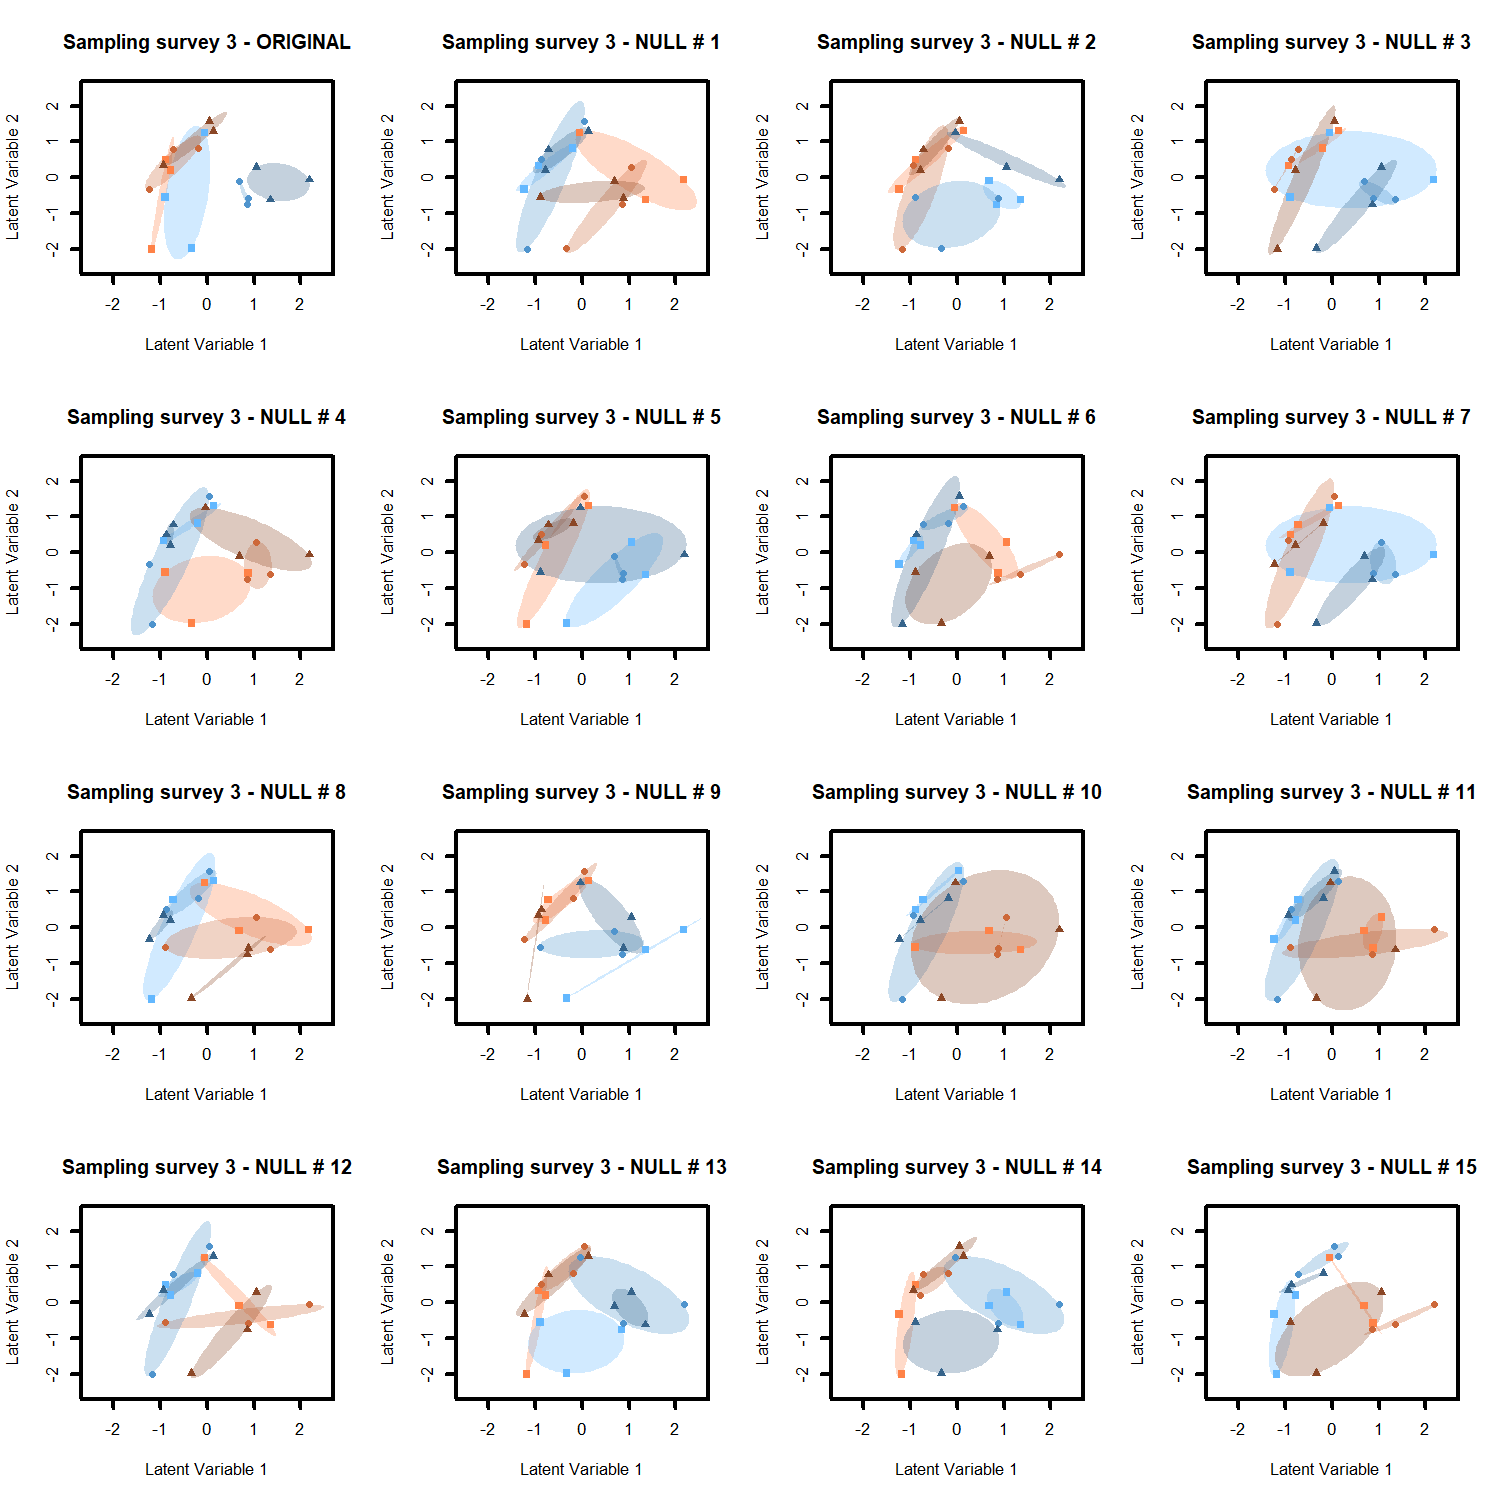
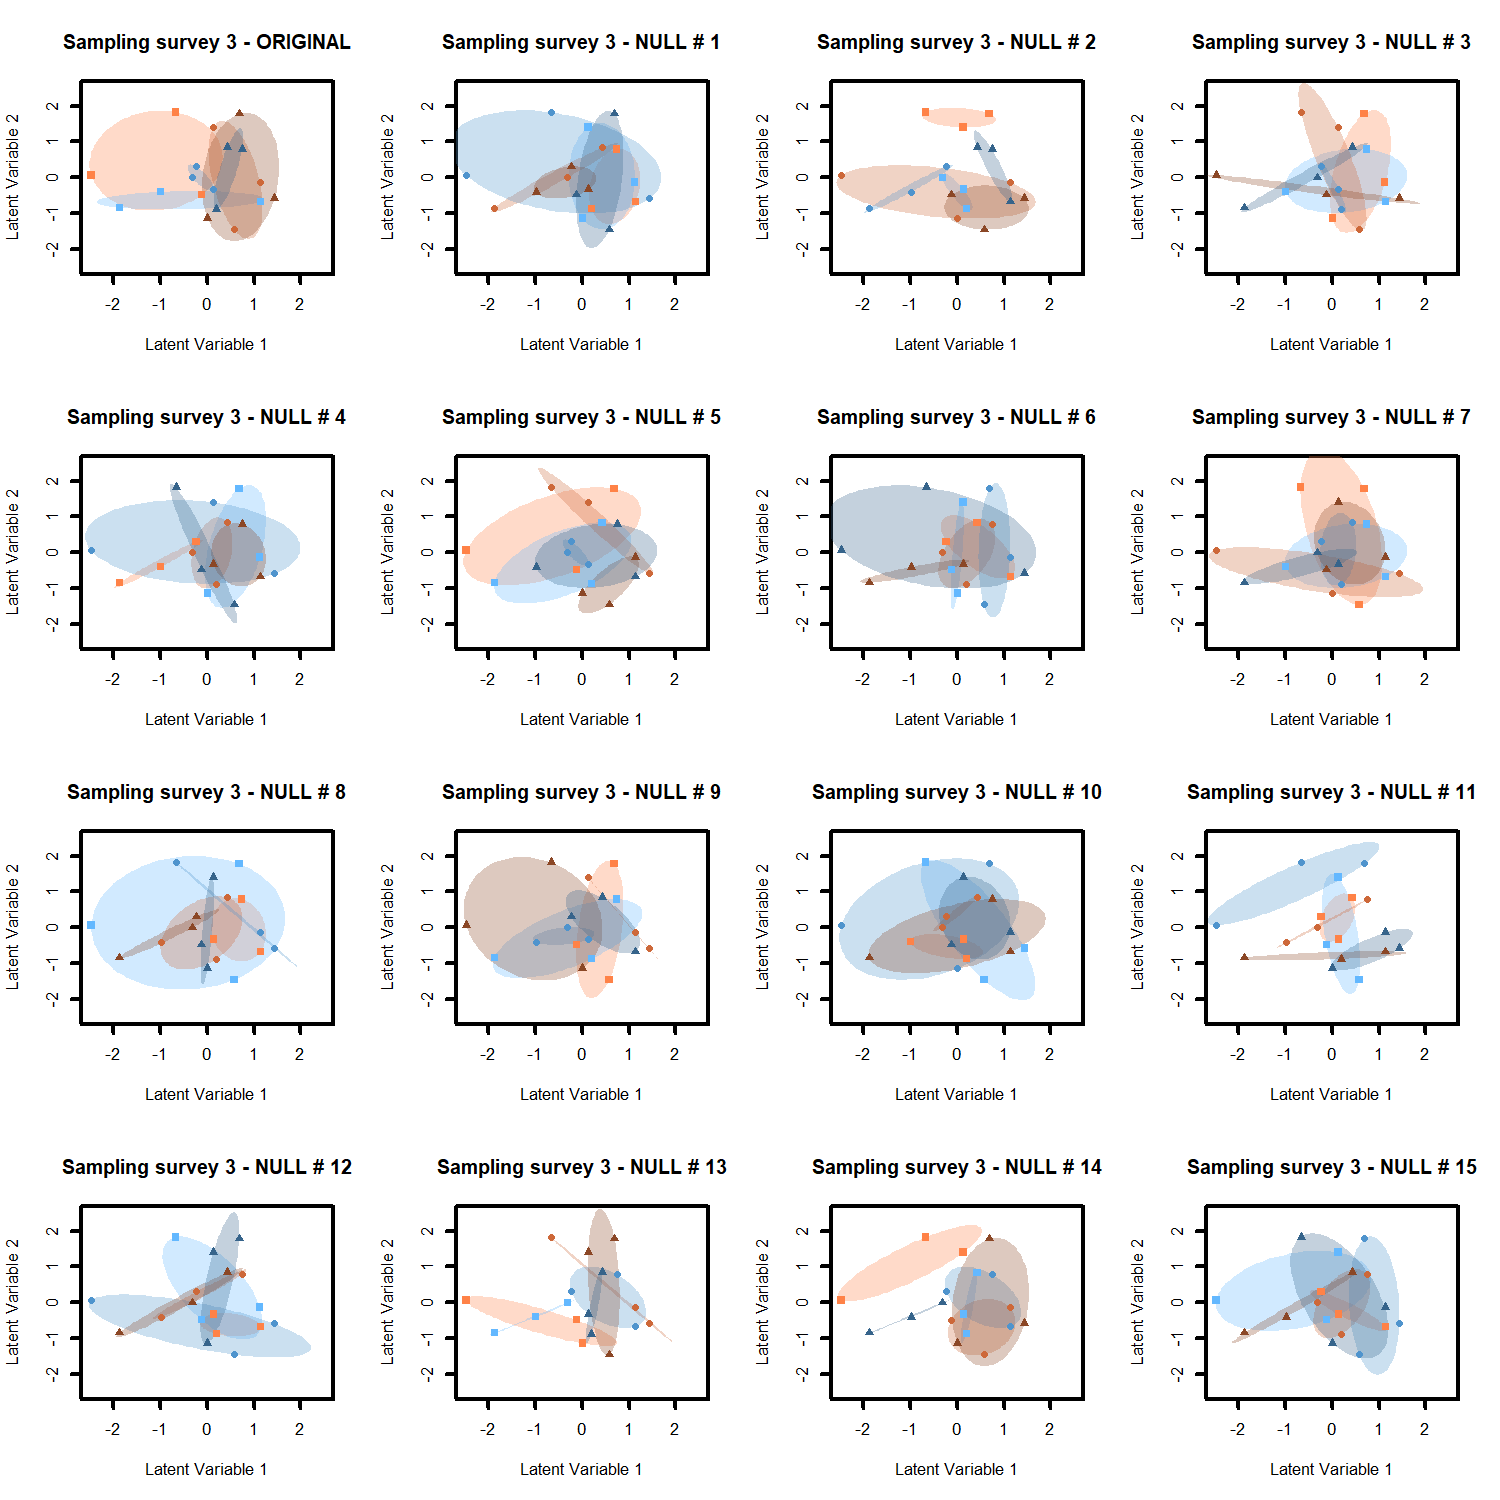
Adding different combination of ponds selected for the last analysis.

diff --git a/Community Structure/Community-Structure.md b/Community Structure/Community-Structure.md
@@ -1207,9 +1207,35 @@ Dif_dist_SS2$p.values
 
 ### Third Survey
 
-Here, again we had to exclude two ponds from the 30 and 120 isolation
-treatments to achieve a balanced design. We randomly selected one
-fishless pond from the 30m and 120m isolation treatments to be excluded.
+``` r
+#Excluding samples for balanced design
+set.seed(3)
+Dif_dist_SS3_orig<- Dif_dist(com = com_SS3, x1 = fish_SS3, x2 = isolation_SS3, family = "negative.binomial", num.lv = 2, test = FALSE, orig_n.init = 20, type = "centroid", method = "VA")
+```
+
+    ## Starting 20 initial runs of the original GLLVM fit
+
+    ## Original GLLVM fit finished
+
+    ## FINISHED
+
+``` r
+Dif_dist_SS3_orig$distances
+```
+
+    ##         30m     120m     480m
+    ## 1 0.7900373 1.710919 2.072816
+
+``` r
+Dif_dist_SS3_orig$diferences
+```
+
+    ##   30 -> 120 120 -> 480 30 -> 480
+    ## 1 0.9208817  0.3618973  1.282779
+
+To actually test for significance here we had to randomly exclude one
+fishless pond from the 30m distance and one from the 120m distance to
+achieve a balanced design.
 
 ``` r
 set.seed(1)
@@ -1220,61 +1246,26 @@ fish_SS3_incomplete <- fish_SS3[-c(first,second)]
 isolation_SS3_incomplete <- isolation_SS3[-c(first,second)]
 
 set.seed(1)
-Dif_dist_SS3<- Dif_dist(com = com_SS3_incomplete, x1 = fish_SS3_incomplete,x2 = isolation_SS3_incomplete,nperm = 1000, family = "negative.binomial", num.lv = 2, strata = T, show.perm = F, orig_n.init = 20, perm_n.init = 1, type = "centroid", method = "VA", refit_perm = F)
+Dif_dist_SS3<- Dif_dist(com = com_SS3_incomplete, x1 = fish_SS3_incomplete,x2 = isolation_SS3_incomplete,nperm = 10000, family = "negative.binomial", num.lv = 2, strata = T, show.perm = F, orig_n.init = 20, perm_n.init = 1, type = "centroid", method = "VA", refit_perm = F)
 
-Dif_dist_SS3$distances
-```
-
-    ##         30m    120m    480m
-    ## 1 0.5232925 1.77442 2.15108
-
-``` r
-Dif_dist_SS3$diferences
-```
-
-    ##   30 -> 120 120 -> 480 30 -> 480
-    ## 1  1.251128    0.37666  1.627788
-
-``` r
 Dif_dist_SS3$p.values
 ```
 
     ##                            30 -> 120 120 -> 480 30 -> 480
-    ## Greater                       0.0340      0.281     0.006
-    ## Greater (Adjusted - FDR)      0.0510      0.281     0.018
-    ## Lower                         0.9660      0.719     0.994
-    ## Lower (Adjusted - FDR)        0.9940      0.994     0.994
-    ## Two sided                     0.0690      0.589     0.007
-    ## Two sided (Adjusted - FDR)    0.1035      0.589     0.021
-
-We can check if our permutation procedure is working by using the
-`plot_null` function to plot some of the null communities generated by
-`Dif_dist()`. This is an example of the first 15 permutations for the
-third survey:
-
-``` r
-set.seed(1)
-par(mfrow = c(4,4))
-plot_null(com_SS3_incomplete, nperm = 15 ,x1 = fish_SS3_incomplete, x2 = isolation_SS3_incomplete,
-          family = "negative.binomial", strata = T, orig_n.init = 10, xlim = c(-2.5,2.5), ylim = c(-2.5,2.5), 
-          refit_perm = F, elipse = T, site_colors = c("sienna1", "steelblue1","sienna3","steelblue3","sienna4", "steelblue4"))
-```
-
-    ## [1] "Starting 10 initial runs of the original GLLVM fit"
-    ## [1] "Original GLLVM fit finished"
-
-![](Community-Structure_files/figure-gfm/plot%20null-1.png)<!-- --> It
-seems like everything is ok.
+    ## Greater                      0.03660     0.3043    0.0058
+    ## Greater (Adjusted - FDR)     0.05490     0.3043    0.0174
+    ## Lower                        0.96340     0.6957    0.9942
+    ## Lower (Adjusted - FDR)       0.99420     0.9942    0.9942
+    ## Two sided                    0.07090     0.5958    0.0108
+    ## Two sided (Adjusted - FDR)   0.10635     0.5958    0.0324
 
 The p-values we got for the differences between centroids are valid for
 a specific combination of 3 out of 4 fishless ponds in 30 and 120 m
-distances. I had to do that to achieve a balanced design. We can check
-what is the proportion of times that the difference between fish and
-fishless ponds is significantly greater in more isolated ponds when
-compared to the lowest isolated (30m VS 480m) for all possible
-combinations. So we run the previous analysis again 1000 times (this is
-very time consuming) with different with different combinations of 3 out
-of 4 fishless ponds in 30 and 120 m distances.
+distances. We can check what is the proportion of times that the
+difference between fish and fishless ponds is significantly greater in
+more isolated ponds when compared to the lowest isolation treatment (30m
+VS 480m) for all possible combinations. So we ran the previous analysis
+1000 times (this is very time consuming).
 
 ``` r
 #Excluding samples for balanced design
@@ -1296,7 +1287,7 @@ for(i in 1:1000){
   fish_SS3_incomplete <- fish_SS3[-c(first[i],second[i])]
   isolation_SS3_incomplete <- isolation_SS3[-c(first[i],second[i])]
   
-  Dif_dist_SS3<- Dif_dist(com = com_SS3_incomplete, x1 = fish_SS3_incomplete,x2 = isolation_SS3_incomplete,nperm = 10000, family = "negative.binomial", num.lv = 2, strata = T, show.perm = F, orig_n.init = 10, perm_n.init = 1, type = "centroid", method = "VA", refit_perm = F)
+  Dif_dist_SS3<- Dif_dist(com = com_SS3_incomplete, x1 = fish_SS3_incomplete,x2 = isolation_SS3_incomplete,nperm = 1000, family = "negative.binomial", num.lv = 2, strata = T, show.perm = F, orig_n.init = 10, perm_n.init = 1, type = "centroid", method = "VA", refit_perm = F)
   
   dists_prop_SS3[,,i] <- Dif_dist_SS3$p.values
   dists_SS3[i,] <- c(as.matrix(Dif_dist_SS3$diferences))
@@ -1306,22 +1297,41 @@ for(i in 1:1000){
 
 ``` r
 #Proportion of Greater
-length(dists_SS3[,3][dists_SS3[1,3] > 0]) / length(dists_SS3[,3])
+length(dists_SS3[,3][dists_SS3[,3] > 0]) / length(dists_SS3[,3])
 ```
 
-    ## [1] 1
+    ## [1] 0.944
 
 ``` r
-length(dists_prop_SS3[1,3,][dists_prop_SS3[1,3,] < 0.05]) / length(dists_prop_SS3[1,3,])
+length(dists_prop_SS3[1,3,][dists_prop_SS3[1,3,] < 0.05 & dists_SS3[,3] > 0]) / length(dists_prop_SS3[1,3, dists_SS3[,3] > 0])
 ```
 
-    ## [1] 0.64
+    ## [1] 0.8050847
 
 ``` r
 ############################################
 ```
 
-In 95% of cases the difference between fish and fishless ponds was
+In 94% of the cases the difference between fish and fishless ponds was
 greater in the 480m distance, if compared to the 30m distance. Also,
-this difference was significantly greater in isolated ponds for 75% of
-these different combinations.
+this difference was significantly greater in isolated ponds in 78% of
+these cases.
+
+We can check if our permutation procedure is working by using the
+`plot_null` function to plot some of the null communities generated by
+`Dif_dist()`. This is an example of the first 15 permutations for the
+third survey:
+
+``` r
+set.seed(1)
+par(mfrow = c(4,4))
+plot_null(com_SS3_incomplete, nperm = 15 ,x1 = fish_SS3_incomplete, x2 = isolation_SS3_incomplete,
+          family = "negative.binomial", strata = T, orig_n.init = 10, xlim = c(-2.5,2.5), ylim = c(-2.5,2.5), 
+          refit_perm = F, elipse = T, site_colors = c("sienna1", "steelblue1","sienna3","steelblue3","sienna4", "steelblue4"))
+```
+
+    ## [1] "Starting 10 initial runs of the original GLLVM fit"
+    ## [1] "Original GLLVM fit finished"
+
+![](Community-Structure_files/figure-gfm/plot%20null-1.png)<!-- --> It
+seems like everything is ok.
